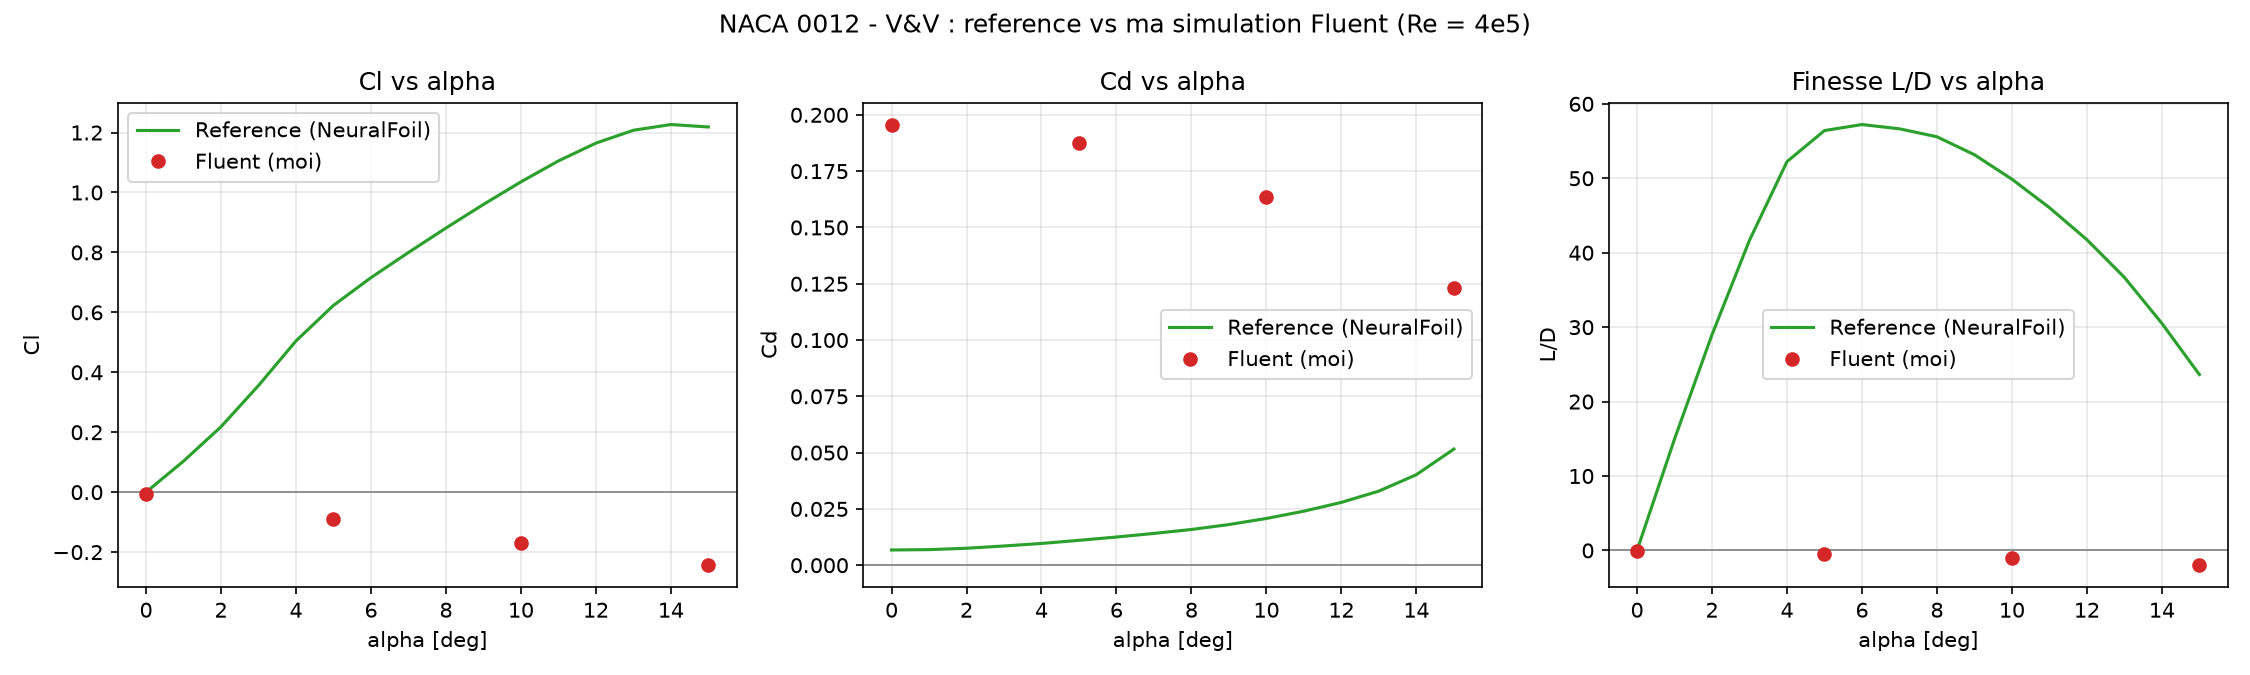
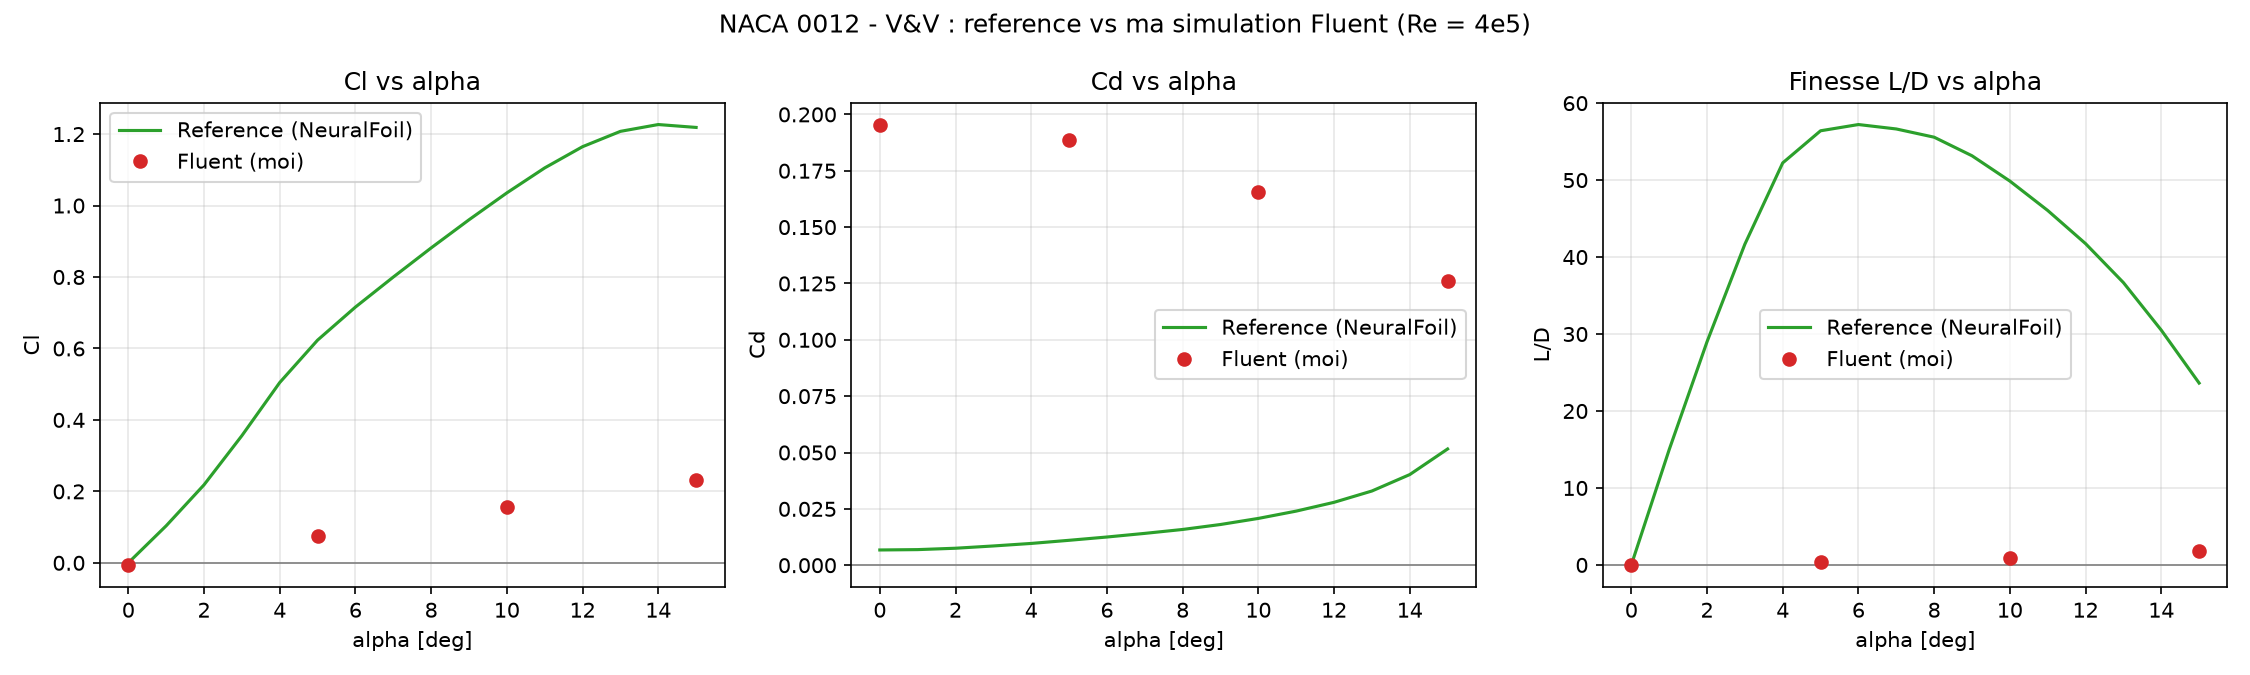
phase0: V&V iteration 2 — Force Vectors corrected
Update the Fluent run with corrected Force Vectors (Uy>0 convention,
drag=(cosa,-sina,0), lift=(sina,cosa,0)). The Cl sign and trend are
now correct (positive, increasing) ✓, but magnitudes remain
non-physical: Cl 5-8x too low, Cd ~20-25x too high and still
decreasing with alpha. Cd(0deg)=0.1955 is unchanged from the previous
run, proving the residual drag comes from domain blockage + coarse
mesh, not the Force Vector. Still not usable for Phase 1.

diff --git a/piml/phase0_post_processor/src/postprocessor.py b/piml/phase0_post_processor/src/postprocessor.py
@@ -81,7 +81,7 @@ def main():
         print("Comparaison Fluent vs reference :")
         print(cmp[["alpha_deg", "Cl_ref", "Cl_cfd", "dCl_%",
                    "Cd_ref", "Cd_cfd", "dCd_%", "LD_ref", "LD_cfd"]].round(3).to_string(index=False))
-        print("\n/!\\ Ecarts massifs et signes opposes -> run defectueux (voir README).")
+        print("\n/!\\ Ecarts massifs (Cl trop faible, Cd trop eleve) -> run encore non valide (voir README).")
     else:
         print("[i] Pas de donnees Fluent exploitables : on trace uniquement la reference.")
 

diff --git a/piml/phase0_post_processor/README.md b/piml/phase0_post_processor/README.md
@@ -13,37 +13,39 @@ quantified. This phase is the data foundation for the Phase 1 surrogate models.
 
 ---
 
-## V&V result — my first Fluent run is non-physical (and why that's useful)
+## V&V result — debugging my Fluent setup, iteration by iteration
 
 ![NACA 0012 — reference vs my Fluent run](results/figures/naca0012_vv_polar.png)
 
-| α | Cl (ref) | Cl (mine) | Cd (ref) | Cd (mine) | L/D (ref) | L/D (mine) |
+**Iteration 2** (Force Vectors corrected) vs the reference polar:
+
+| α | Cl (ref) | Cl (mine) | ΔCl | Cd (ref) | Cd (mine) | ΔCd |
 |---|---|---|---|---|---|---|
-| 0° | ≈ 0 | −0.007 | 0.007 | 0.196 | ≈ 0 | −0.03 |
-| 5° | +0.623 | −0.088 | 0.011 | 0.188 | 56.4 | −0.47 |
-| 10° | +1.035 | −0.169 | 0.021 | 0.163 | 49.9 | −1.04 |
-| 15° | +1.219 | −0.244 | 0.052 | 0.123 | 23.6 | −1.98 |
+| 0° | ≈ 0 | −0.007 | — | 0.007 | 0.196 | +2792 % |
+| 5° | +0.623 | +0.075 | −88 % | 0.011 | 0.189 | +1607 % |
+| 10° | +1.035 | +0.156 | −85 % | 0.021 | 0.166 | +697 % |
+| 15° | +1.219 | +0.231 | −81 % | 0.052 | 0.126 | +144 % |
 
-My run is qualitatively wrong: a **symmetric** airfoil cannot have negative, growing-negative
-lift, and drag cannot *decrease* with incidence. The V&V comparison makes the three root
-causes explicit:
+### Iteration 1 → 2: what the Force Vector fix changed
+My first run reported **negative, growing-negative Cl** — impossible on a *symmetric* airfoil.
+Root cause: the drag direction was `(cos α, +sin α)` while the inlet flow is `(cos α, ∓sin α)`,
+so the `sin α` sign was inverted. Fixing it to `drag = (cos α, −sin α, 0)`,
+`lift = (sin α, cos α, 0)` (see [`docs/fluent_reports_NACA0012.md`](../../docs/fluent_reports_NACA0012.md))
+**restored the correct Cl sign and trend** ✓.
 
-1. **Inverted Force Vectors.** My drag direction was set to `(cos α, +sin α)` while the inlet
-   flow is `(cos α, −sin α)` (Uy < 0). Drag *must* point along the flow → the sign of `sin α`
-   was flipped on both lift and drag, producing the negative Cl and the inverted Cd trend.
-   Fix: `drag = (cos α, −sin α, 0)`, `lift = (sin α, cos α, 0)` — see
-   [`docs/fluent_reports_NACA0012.md`](../../docs/fluent_reports_NACA0012.md).
-2. **Domain blockage.** The fluid domain `y ∈ [−0.3, 0.3]` is only ±1.5 chords tall, so the
-   airfoil chokes the channel: lift fails to develop and drag is inflated (Cd ≈ 0.2 vs ≈ 0.007).
-   Even re-projecting the forces onto the correct axes leaves Cl negative — so the Force Vector
-   is not the only issue.
-3. **Coarse mesh.** 56k cells, no inflation layers, y⁺ unresolved, continuity residual ≈ 9·10⁻⁴
-   (above the 10⁻⁴ standard). Drag is the most sensitive quantity to this.
+### What is still wrong (and the proof it isn't the Force Vector)
+The magnitudes remain non-physical: **Cl is 5–8× too low** and **Cd is ~20–25× too high and still
+*decreases* with α** (impossible — drag grows with incidence). The smoking gun is **α = 0°**, where
+there is *no* Force Vector rotation at all: `Cd(0°) = 0.1955`, essentially unchanged from the
+flawed run's `0.1957`. So the huge drag was never about the Force Vector — it comes from:
 
-**Conclusion:** this data is *not* usable for Phase 1 training, and is kept only as a documented
-V&V diagnostic. The simulation will be re-run with corrected Force Vectors, a domain of ±10–20
-chords, and an inflation-layer mesh (y⁺ ≈ 1). Raw run artifacts (convergence / residual plots,
-original report) are archived under [`results/figures/fluent_runs/`](results/figures/fluent_runs).
+1. **Domain blockage.** `y ∈ [−0.3, 0.3]` is only ±1.5 chords tall: the airfoil chokes the channel,
+   suppressing lift and inflating drag.
+2. **Coarse mesh.** 56k cells, no inflation layers, y⁺ unresolved, continuity ≈ 9·10⁻⁴ (> 10⁻⁴).
+
+**Conclusion:** still *not* usable for Phase 1 training — kept as a documented V&V iteration. Next
+run: domain ±10–20 chords + inflation-layer mesh (y⁺ ≈ 1). Raw artifacts archived under
+[`results/figures/fluent_runs/`](results/figures/fluent_runs).
 
 ---
 